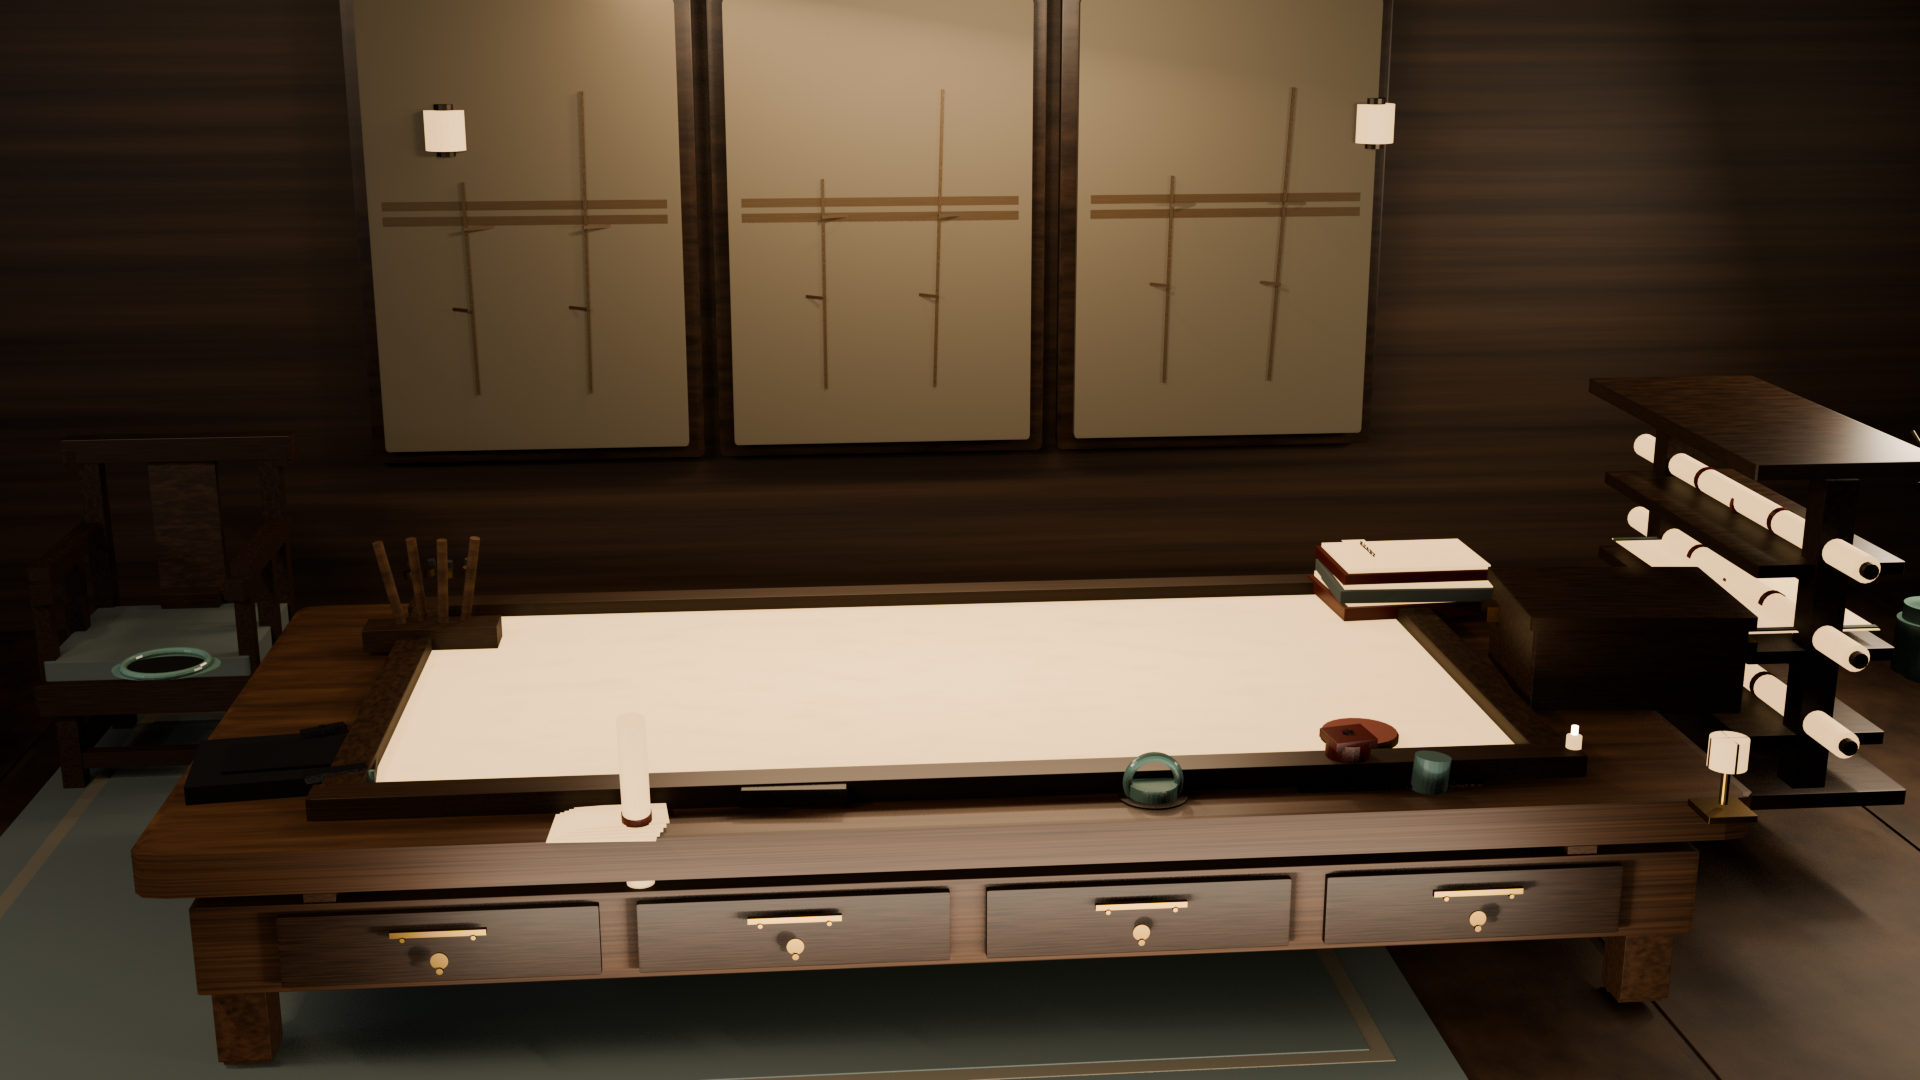
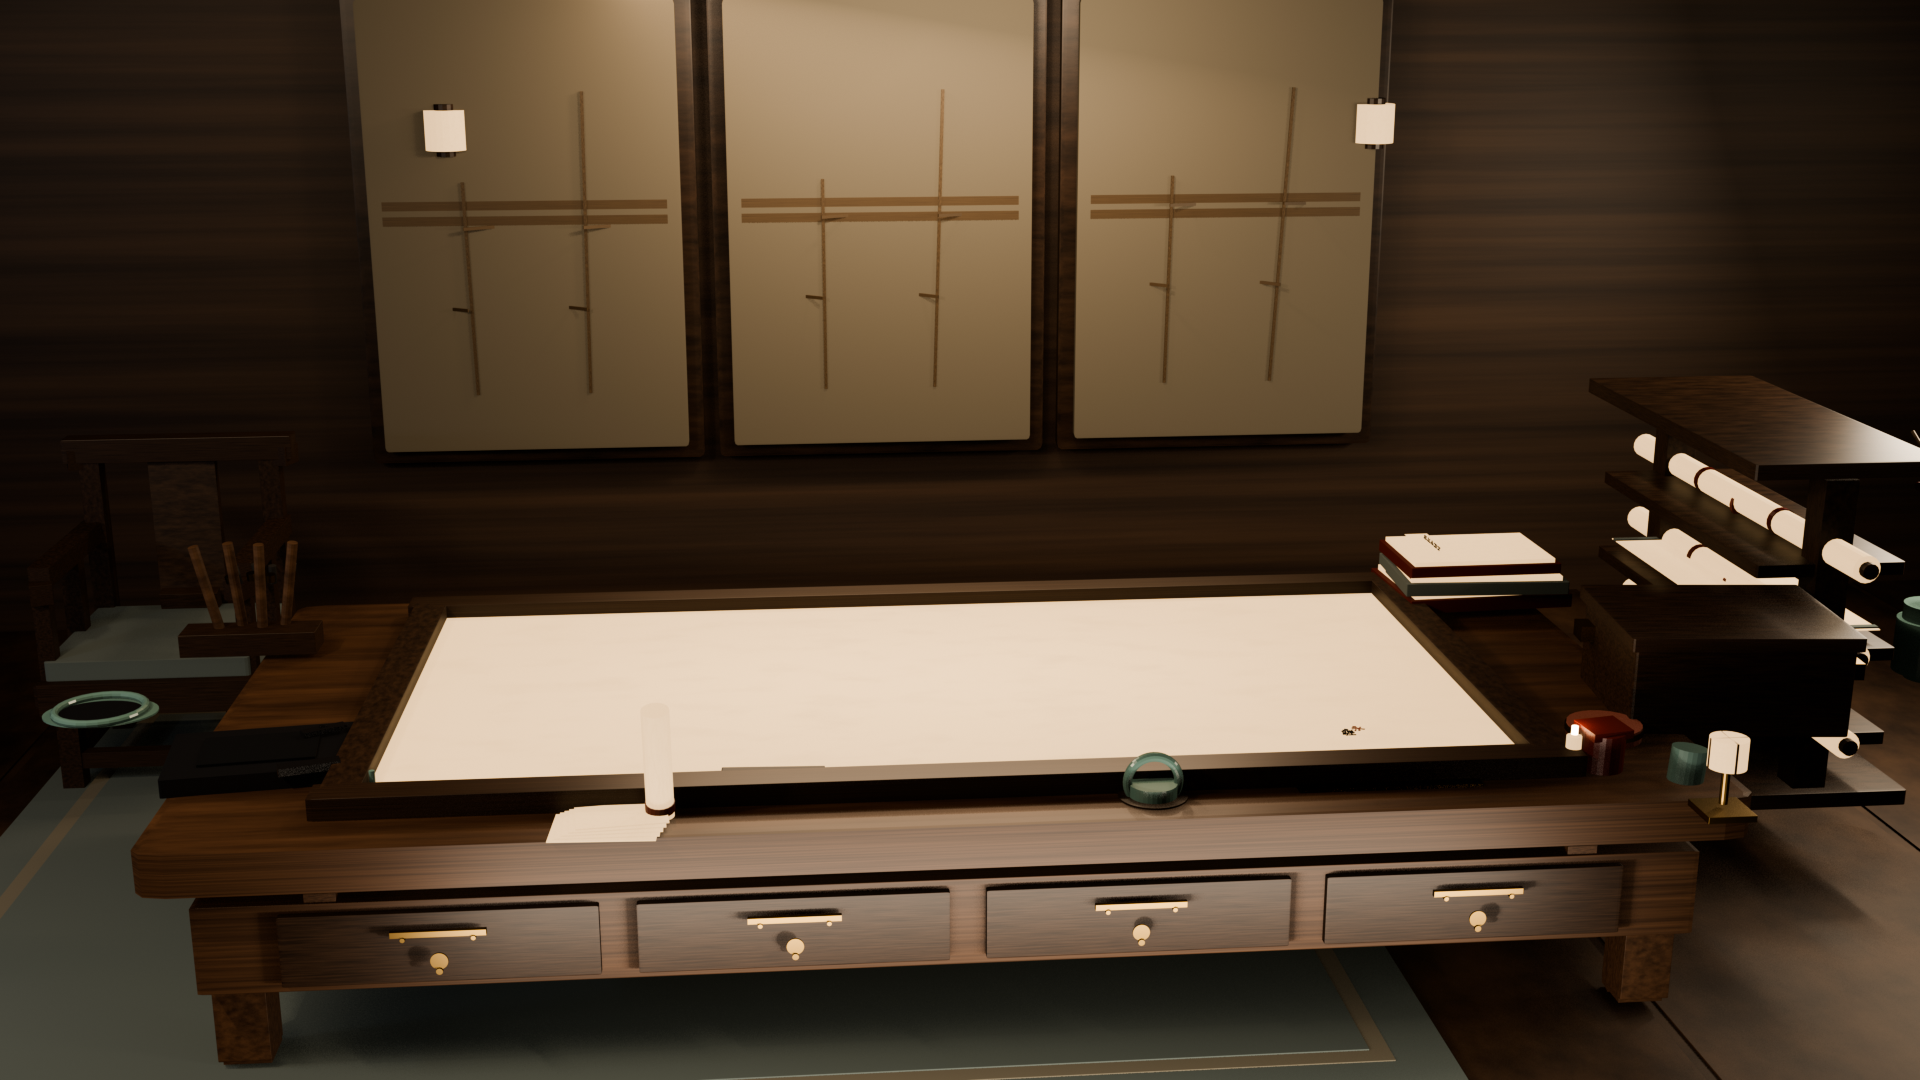
feat(blender): rebalance study desk props

diff --git a/tools/blender/start-room.py b/tools/blender/start-room.py
@@ -459,6 +459,8 @@ else:
     print("no CJK font, skipping map labels")
 
 # ---- desk micro-details ----
+# Desktop layout: left = writing tools, centre = clear map work area,
+# right = books and document storage. Keep the map perimeter unobstructed.
 # Small, readable marks of hand-built joinery and daily use; kept below the
 # existing hero silhouettes so the light balance and composition stay intact.
 for i in range(4):
@@ -473,9 +475,9 @@ for mi, mx in enumerate((-1.96, 1.96)):
 
 # a shallow celadon brush washer, with a dark water pool and a raised rim
 # tucked beside the inkstone (a close-up reward without competing with the map)
-disc("brush_washer", (-2.92, 1.12, 0.900), (0.20, 0.15), CELADON)
-disc("brush_washer_pool", (-2.92, 1.12, 0.906), (0.145, 0.105), INKSTONE)
-bpy.ops.mesh.primitive_torus_add(major_radius=0.155, minor_radius=0.014, major_segments=28, minor_segments=10, location=(-2.92, 1.12, 0.914))
+disc("brush_washer", (-3.02, 0.62, 0.900), (0.20, 0.15), CELADON)
+disc("brush_washer_pool", (-3.02, 0.62, 0.906), (0.145, 0.105), INKSTONE)
+bpy.ops.mesh.primitive_torus_add(major_radius=0.155, minor_radius=0.014, major_segments=28, minor_segments=10, location=(-3.02, 0.62, 0.914))
 washer_rim = bpy.context.object
 washer_rim.name = "brush_washer_rim"
 washer_rim.data.materials.append(CELADON)
@@ -489,31 +491,31 @@ for ri, rz in enumerate((0.68, 1.02, 1.36)):
 
 # stacked book page cuts: three fine lines catch the warm key light and sell the
 # page block without changing the book silhouette.
-for pi, py in enumerate((1.52, 1.56, 1.60)):
-    box("book_page_cut_%d" % pi, (2.05, py, 1.087), (0.48, 0.006, 0.0015), STAIN, rot=(0, 0, 0.02), bev=0)
+for pi, py in enumerate((1.59, 1.63, 1.67)):
+    box("book_page_cut_%d" % pi, (2.35, py, 1.087), (0.48, 0.006, 0.0015), STAIN, rot=(0, 0, 0.02), bev=0)
 
 # stacked volumes: hard covers, cloth wrap, and a cut page block
-box("book_a", (2.05, 1.55, 0.925), (0.70, 0.50, 0.055), LACQUER, rot=(0, 0, 0.06), bev=0.006, uv=1)
-box("book_a_pages", (2.05, 1.55, 0.957), (0.655, 0.455, 0.035), PAPER, rot=(0, 0, 0.06), bev=0.002)
-box("book_b", (2.05, 1.53, 0.993), (0.68, 0.48, 0.052), CLOTH_FB, rot=(0, 0, -0.04), bev=0.006, uv=1)
-box("book_b_pages", (2.05, 1.53, 1.022), (0.635, 0.435, 0.032), PAPER, rot=(0, 0, -0.04), bev=0.002)
-box("book_c", (2.04, 1.56, 1.056), (0.64, 0.45, 0.048), LACQUER, rot=(0, 0, 0.02), bev=0.006, uv=1)
-box("book_c_pages", (2.04, 1.56, 1.083), (0.60, 0.41, 0.030), PAPER, rot=(0, 0, 0.02), bev=0.002)
+box("book_a", (2.35, 1.62, 0.925), (0.70, 0.50, 0.055), LACQUER, rot=(0, 0, 0.06), bev=0.006, uv=1)
+box("book_a_pages", (2.35, 1.62, 0.957), (0.655, 0.455, 0.035), PAPER, rot=(0, 0, 0.06), bev=0.002)
+box("book_b", (2.35, 1.60, 0.993), (0.68, 0.48, 0.052), CLOTH_FB, rot=(0, 0, -0.04), bev=0.006, uv=1)
+box("book_b_pages", (2.35, 1.60, 1.022), (0.635, 0.435, 0.032), PAPER, rot=(0, 0, -0.04), bev=0.002)
+box("book_c", (2.34, 1.63, 1.056), (0.64, 0.45, 0.048), LACQUER, rot=(0, 0, 0.02), bev=0.006, uv=1)
+box("book_c_pages", (2.34, 1.63, 1.083), (0.60, 0.41, 0.030), PAPER, rot=(0, 0, 0.02), bev=0.002)
 # title slip pasted on the top volume
-box("book_slip", (1.90, 1.72, 1.081), (0.10, 0.26, 0.002), PAPER, rot=(0, 0, 0.02), bev=0)
+box("book_slip", (2.20, 1.79, 1.081), (0.10, 0.26, 0.002), PAPER, rot=(0, 0, 0.02), bev=0)
 if get_font() is not None:
-    relief("book_title", "万历会计录", (1.895, 1.612, 1.0835), 0.042, INK, rot=(math.pi / 2, 0, math.pi / 2 + 0.02), extrude=0.0012)
+    relief("book_title", "万历会计录", (2.195, 1.682, 1.0835), 0.042, INK, rot=(math.pi / 2, 0, math.pi / 2 + 0.02), extrude=0.0012)
 
-box("wood_box", (2.55, 0.55, 1.02), (0.78, 0.62, 0.34), WOOD_FRAME, rot=(0, 0, -0.09), bev=0.014, uv=1)
-box("wood_box_lid", (2.55, 0.55, 1.20), (0.82, 0.66, 0.05), WOOD_FRAME, rot=(0, 0, -0.09), bev=0.012, uv=1)
-box("wood_box_clasp", (2.20, 0.55, 1.06), (0.06, 0.14, 0.10), BRASS, rot=(0, 0, -0.09), bev=0)
-box("wood_box_corner_a", (2.92, 0.30, 1.08), (0.10, 0.10, 0.06), BRASS, rot=(0, 0, -0.09), bev=0)
-box("wood_box_corner_b", (2.18, 0.80, 1.08), (0.10, 0.10, 0.06), BRASS, rot=(0, 0, -0.09), bev=0)
+box("wood_box", (2.82, 0.28, 1.02), (0.78, 0.62, 0.34), WOOD_FRAME, rot=(0, 0, -0.09), bev=0.014, uv=1)
+box("wood_box_lid", (2.82, 0.28, 1.20), (0.82, 0.66, 0.05), WOOD_FRAME, rot=(0, 0, -0.09), bev=0.012, uv=1)
+box("wood_box_clasp", (2.47, 0.28, 1.06), (0.06, 0.14, 0.10), BRASS, rot=(0, 0, -0.09), bev=0)
+box("wood_box_corner_a", (3.19, 0.03, 1.08), (0.10, 0.10, 0.06), BRASS, rot=(0, 0, -0.09), bev=0)
+box("wood_box_corner_b", (2.45, 0.53, 1.08), (0.10, 0.10, 0.06), BRASS, rot=(0, 0, -0.09), bev=0)
 
 # brush rest + brushes laid across it, tips tapered
-box("brush_rest", (-1.95, 1.35, 0.93), (0.52, 0.16, 0.09), WOOD_FRAME, bev=0.01, uv=1)
+box("brush_rest", (-2.65, 1.35, 0.93), (0.52, 0.16, 0.09), WOOD_FRAME, bev=0.01, uv=1)
 for i in range(4):
-    bx = -2.10 + i * 0.10
+    bx = -2.80 + i * 0.10
     by = 1.35 + (i % 2) * 0.03
     rot_z = 0.12 * (i - 1.5)
     cyl("brush_%d" % i, (bx, by, 1.12), 0.020, 0.40, WOOD_LIGHT, rot=(0.10, rot_z, 0), verts=14)
@@ -521,21 +523,21 @@ for i in range(4):
     cyl("brush_tuft_%d" % i, (bx - math.sin(rot_z) * 0.245, by + math.cos(rot_z) * 0.245 + 0.036, 1.112), 0.016, 0.075, BRUSH_HAIR, rot=(0.12, rot_z, 0), verts=12)
 
 # inkstone with a wet pool, plus a resting ink stick
-box("inkstone", (-2.25, 0.05, 0.895), (0.60, 0.44, 0.065), INKSTONE, rot=(0, 0, 0.12), bev=0.014, uv=1)
-box("ink_pool", (-2.25, 0.05, 0.933), (0.38, 0.26, 0.008), mat_basic("ink_pool", (0.010, 0.012, 0.014), rough=0.14), rot=(0, 0, 0.12), bev=0)
-box("ink_stick", (-2.05, -0.14, 0.935), (0.20, 0.055, 0.028), INK, rot=(0, 0, 0.30), bev=0.004)
+box("inkstone", (-2.35, 0.12, 0.895), (0.60, 0.44, 0.065), INKSTONE, rot=(0, 0, 0.12), bev=0.014, uv=1)
+box("ink_pool", (-2.35, 0.12, 0.933), (0.38, 0.26, 0.008), mat_basic("ink_pool", (0.010, 0.012, 0.014), rough=0.14), rot=(0, 0, 0.12), bev=0)
+box("ink_stick", (-2.15, -0.07, 0.935), (0.20, 0.055, 0.028), INK, rot=(0, 0, 0.30), bev=0.004)
 
 # seals: carved shou-shan stone and a jade one, with the vermilion pad
-cyl("seal_red", (1.30, -0.30, 0.925), 0.075, 0.16, LACQUER, rot=(0.06, 0, 0), verts=24)
-box("seal_red_cap", (1.30, -0.30, 1.005), (0.15, 0.13, 0.03), LACQUER, rot=(0.06, 0, 0.20), bev=0.005)
-cyl("seal_jade", (1.55, -0.42, 0.910), 0.060, 0.13, JADE, rot=(-0.05, 0.10, 0), verts=24)
-cyl("seal_pad", (1.42, -0.02, 0.895), 0.13, 0.05, SEAL_CLAY, verts=24)
-cyl("seal_pad_rim", (1.42, -0.02, 0.902), 0.135, 0.02, BRASS, verts=28)
+cyl("seal_red", (2.18, -0.30, 0.925), 0.075, 0.16, LACQUER, rot=(0.06, 0, 0), verts=24)
+box("seal_red_cap", (2.18, -0.30, 1.005), (0.15, 0.13, 0.03), LACQUER, rot=(0.06, 0, 0.20), bev=0.005)
+cyl("seal_jade", (2.43, -0.42, 0.910), 0.060, 0.13, JADE, rot=(-0.05, 0.10, 0), verts=24)
+cyl("seal_pad", (2.30, -0.02, 0.895), 0.13, 0.05, SEAL_CLAY, verts=24)
+cyl("seal_pad_rim", (2.30, -0.02, 0.902), 0.135, 0.02, BRASS, verts=28)
 
 # paperweight and a rolled edict
-box("weight_stone", (-0.55, -0.35, 0.905), (0.34, 0.14, 0.06), INKSTONE, rot=(0, 0, -0.05), bev=0.012)
-cyl("edict_roll", (-1.05, -0.52, 0.905), 0.045, 0.72, PAPER, rot=(0, -0.22, math.pi / 2), verts=20)
-cyl("edict_tie", (-1.05, -0.52, 0.905), 0.048, 0.03, LACQUER, rot=(0, -0.22, math.pi / 2), verts=20)
+box("weight_stone", (-0.62, -0.28, 0.905), (0.34, 0.14, 0.06), INKSTONE, rot=(0, 0, -0.05), bev=0.012)
+cyl("edict_roll", (-0.98, -0.44, 0.905), 0.045, 0.72, PAPER, rot=(0, -0.22, math.pi / 2), verts=20)
+cyl("edict_tie", (-0.98, -0.44, 0.905), 0.048, 0.03, LACQUER, rot=(0, -0.22, math.pi / 2), verts=20)
 
 # ---- right scroll rack: capped top and base, scrolls on each shelf ----
 box("rack_upright_a", (3.35, 1.95, 1.00), (0.13, 0.13, 1.30), WOOD_FRAME, bev=0.012, uv=1)
